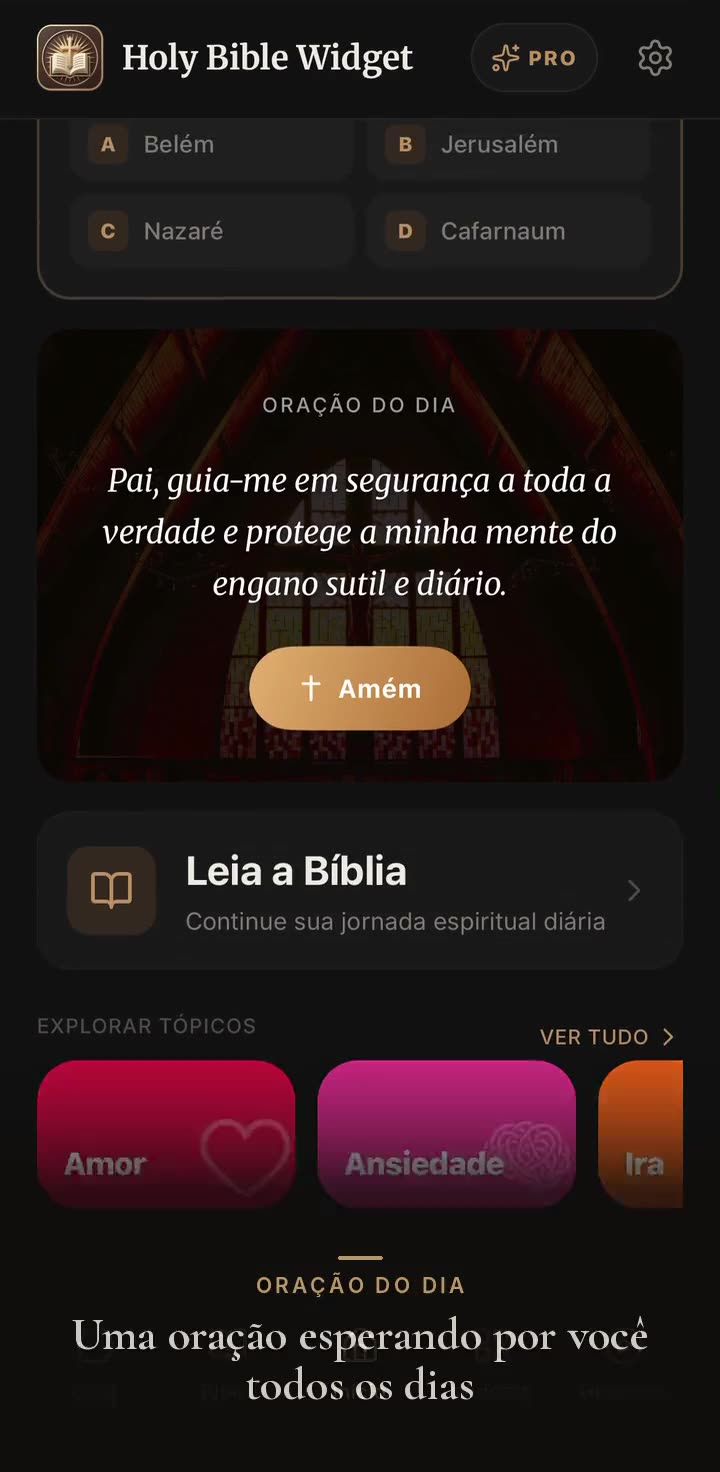
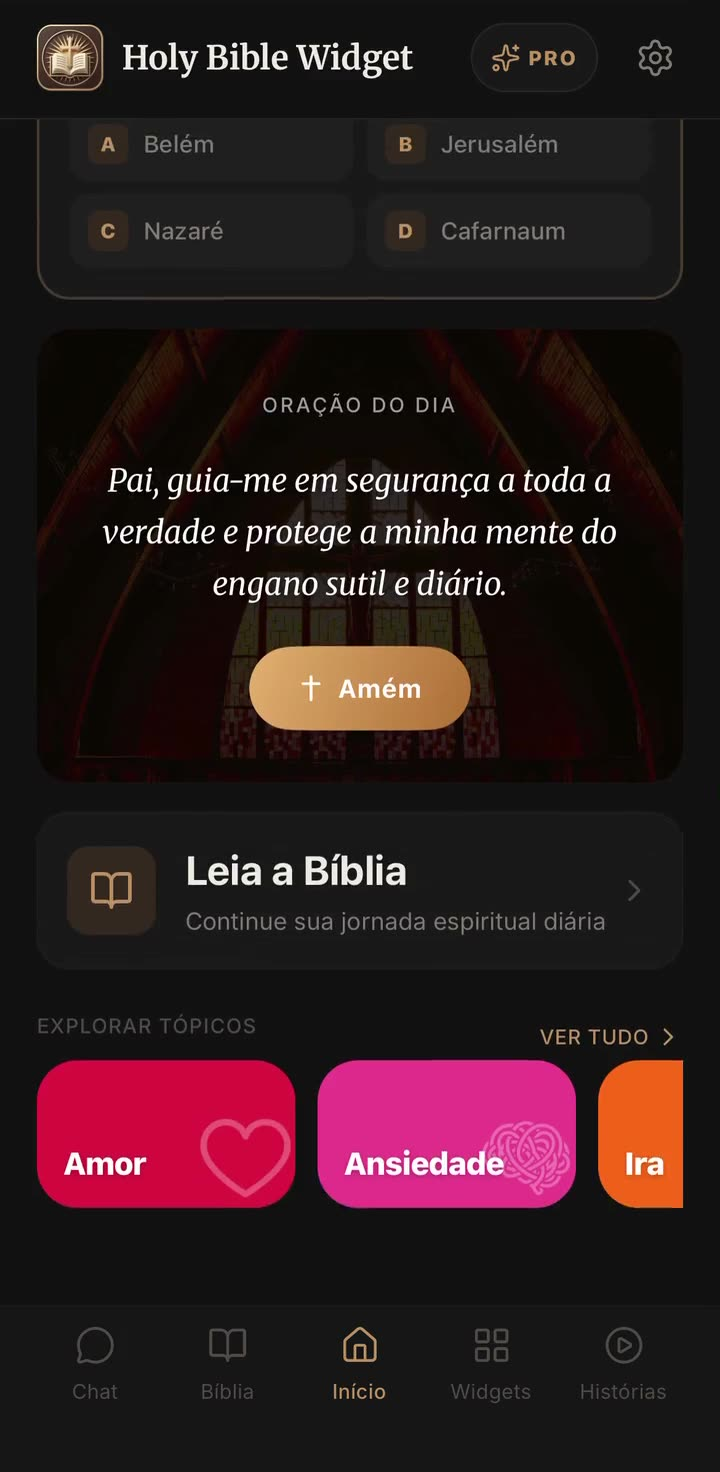
Add files via upload

Changed region(s): [[0.0306, 0.7188, 0.9472, 0.9688], [0.7944, 0.875, 0.9167, 0.9688], [0.0917, 0.875, 0.2139, 0.9688]]

diff --git a/index.html b/index.html
@@ -203,7 +203,7 @@ h2{font-size:28px;margin-bottom:8px}
 <!-- END UTMIFY -->
 <!-- UTMIFY PIXEL -->
 <script>
-  window.pixelId = "6b00fa36561ad29fdaf06686";
+  window.pixelId = "6af6203b4d1f4ef96331803b";
   var a = document.createElement("script");
   a.setAttribute("async", "");
   a.setAttribute("defer", "");

diff --git a/README.md b/README.md
@@ -71,4 +71,4 @@ Guardadas em `offer/img/` (otimizadas, ~1000 px). Créditos (não obrigatórios,
 Para trocar uma foto, substitua o arquivo em `offer/img/` mantendo o nome. As ilustrações SVG (`offer/bonus-art.js`) continuam como alternativa se uma foto for removida de `BONUS_PHOTOS`.
 
 ## Vídeo do app
-`offer/video/app.mp4` (42 s, 4,3 MB, narração masculina + música de fundo original, legendas em português; começa sem som e o botão "Toque para ouvir" ativa o áudio) e `offer/video/app-poster.jpg`. Aparece na oferta depois de "Conheça o TELA DE FÉ", carrega só quando o visitante chega à secção e toca em loop. Eventos: `app_video_view`, `app_video_sound_on`.
+`offer/video/app.mp4` (42 s, 4,3 MB, narração masculina + música de fundo original, sem legendas; começa sem som e o botão "Toque para ouvir" ativa o áudio) e `offer/video/app-poster.jpg`. Aparece na oferta depois de "Conheça o TELA DE FÉ", carrega só quando o visitante chega à secção e toca em loop. Eventos: `app_video_view`, `app_video_sound_on`.
